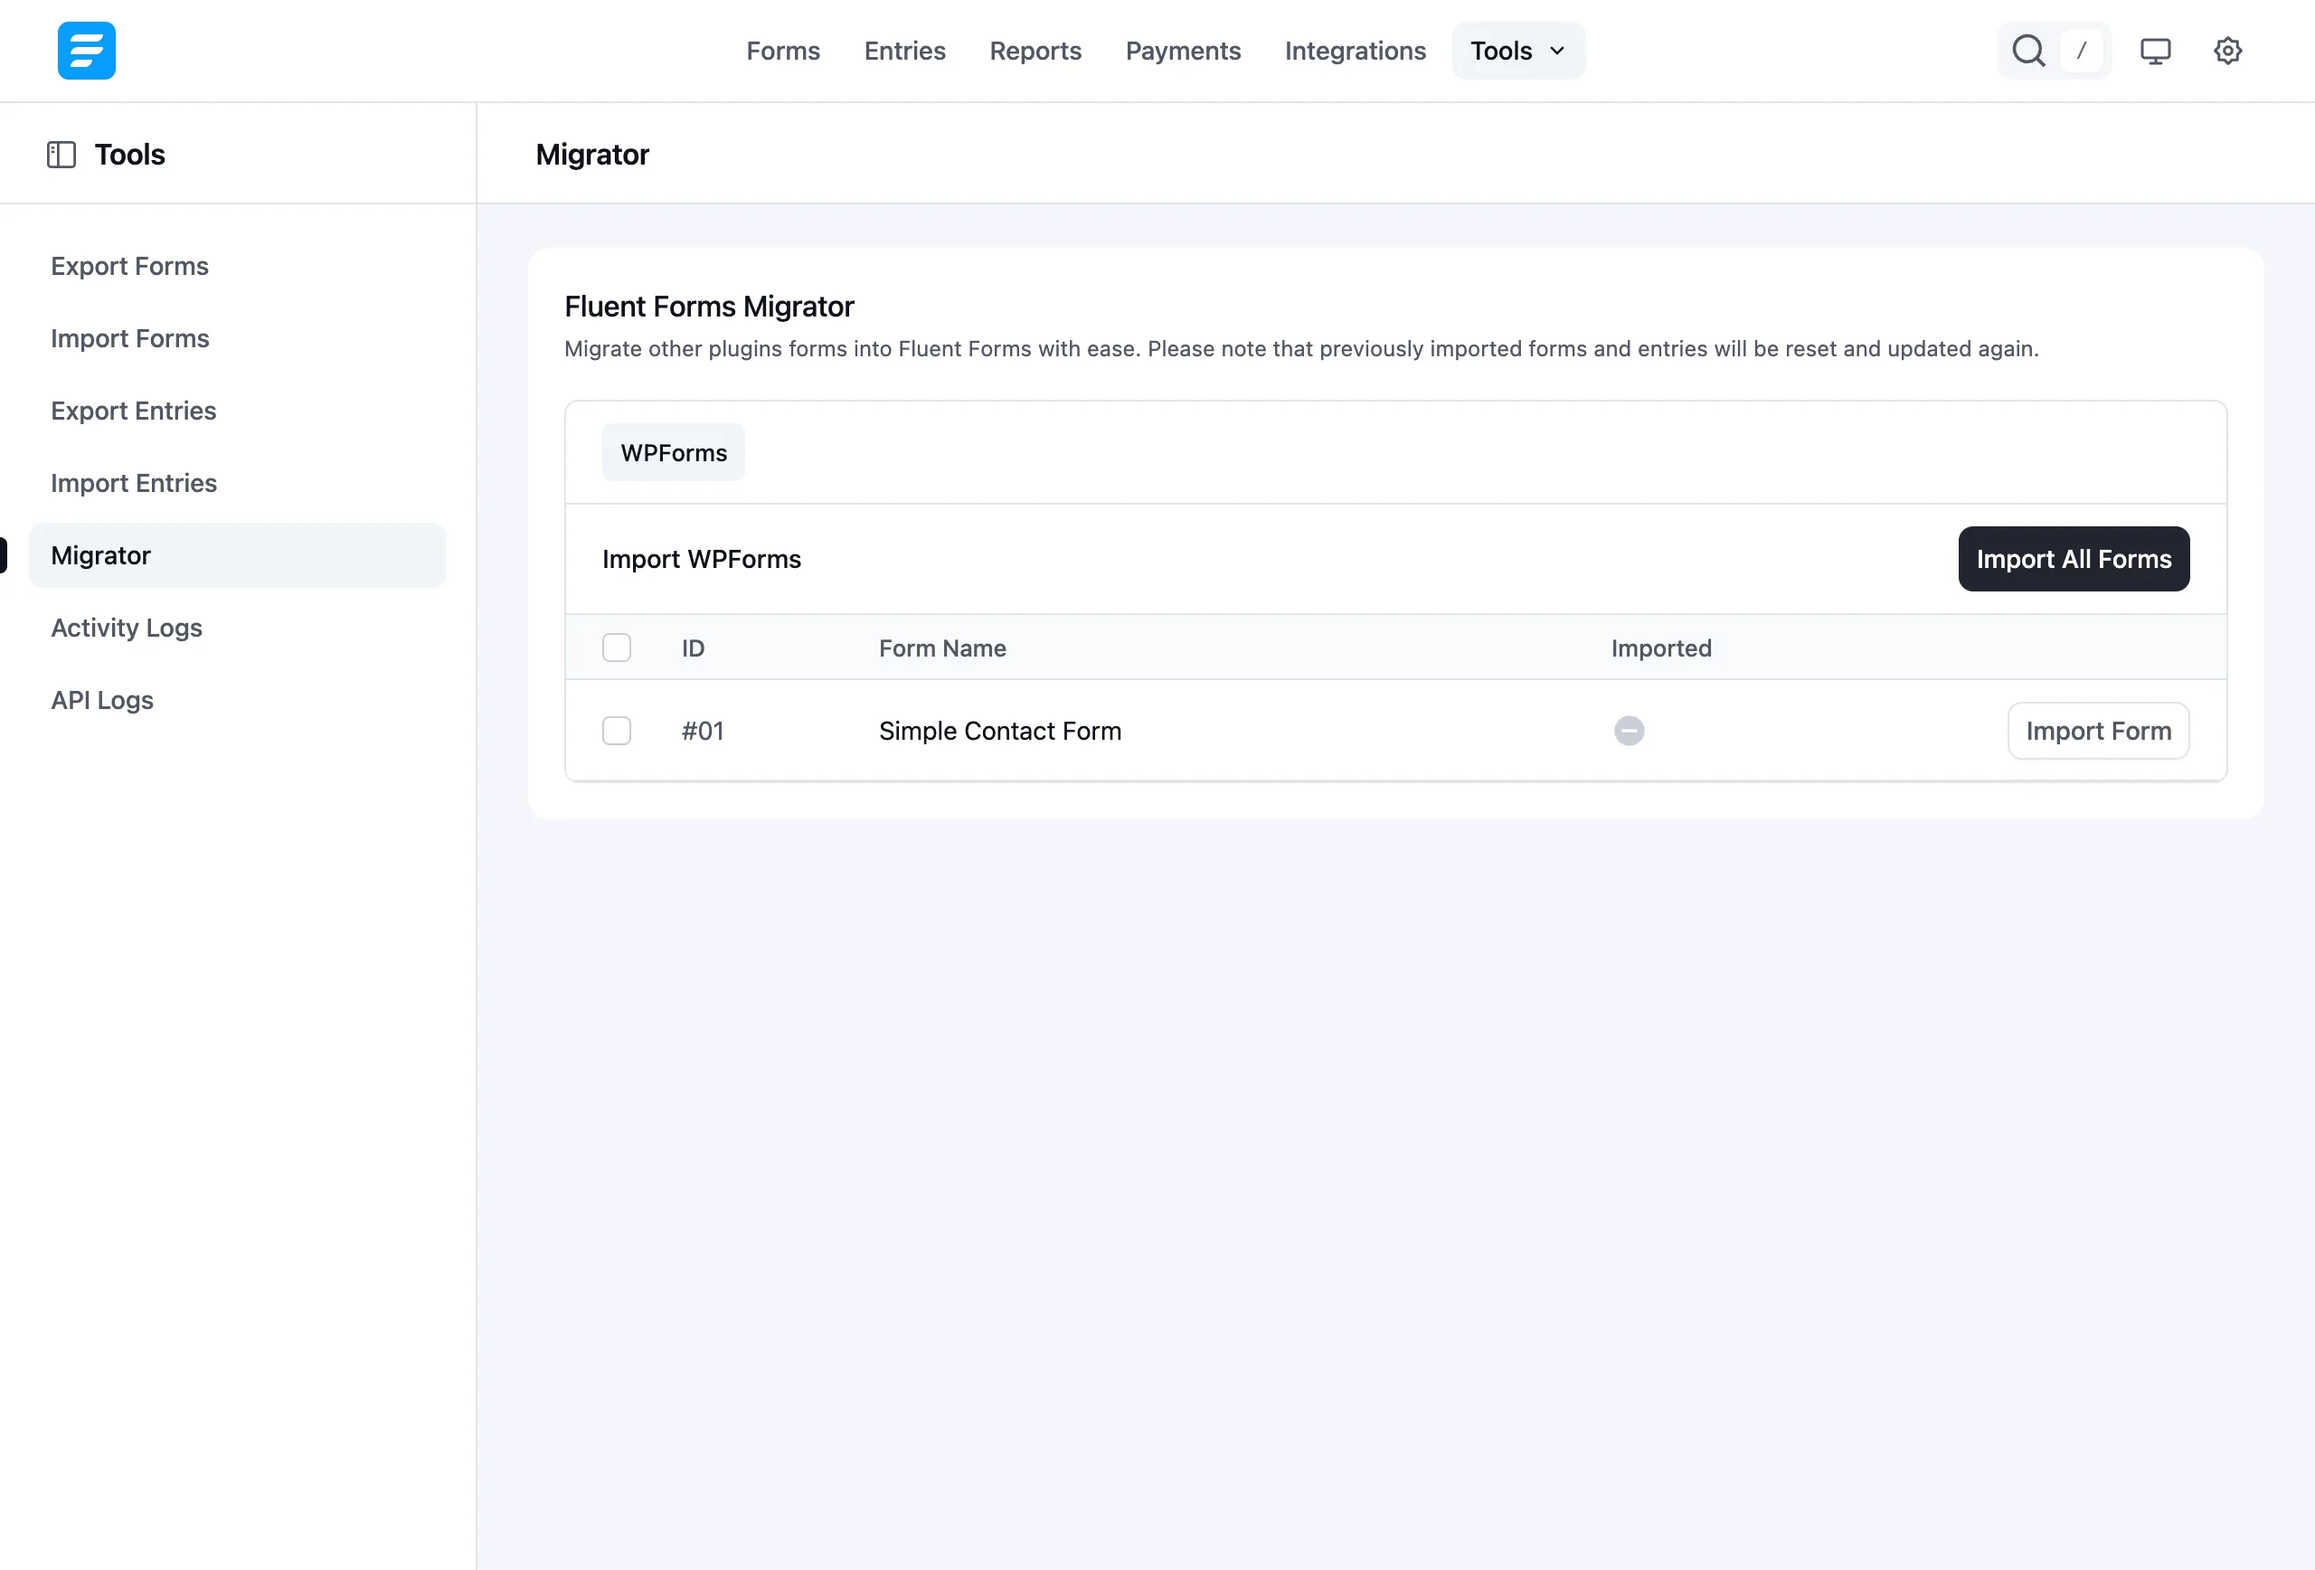
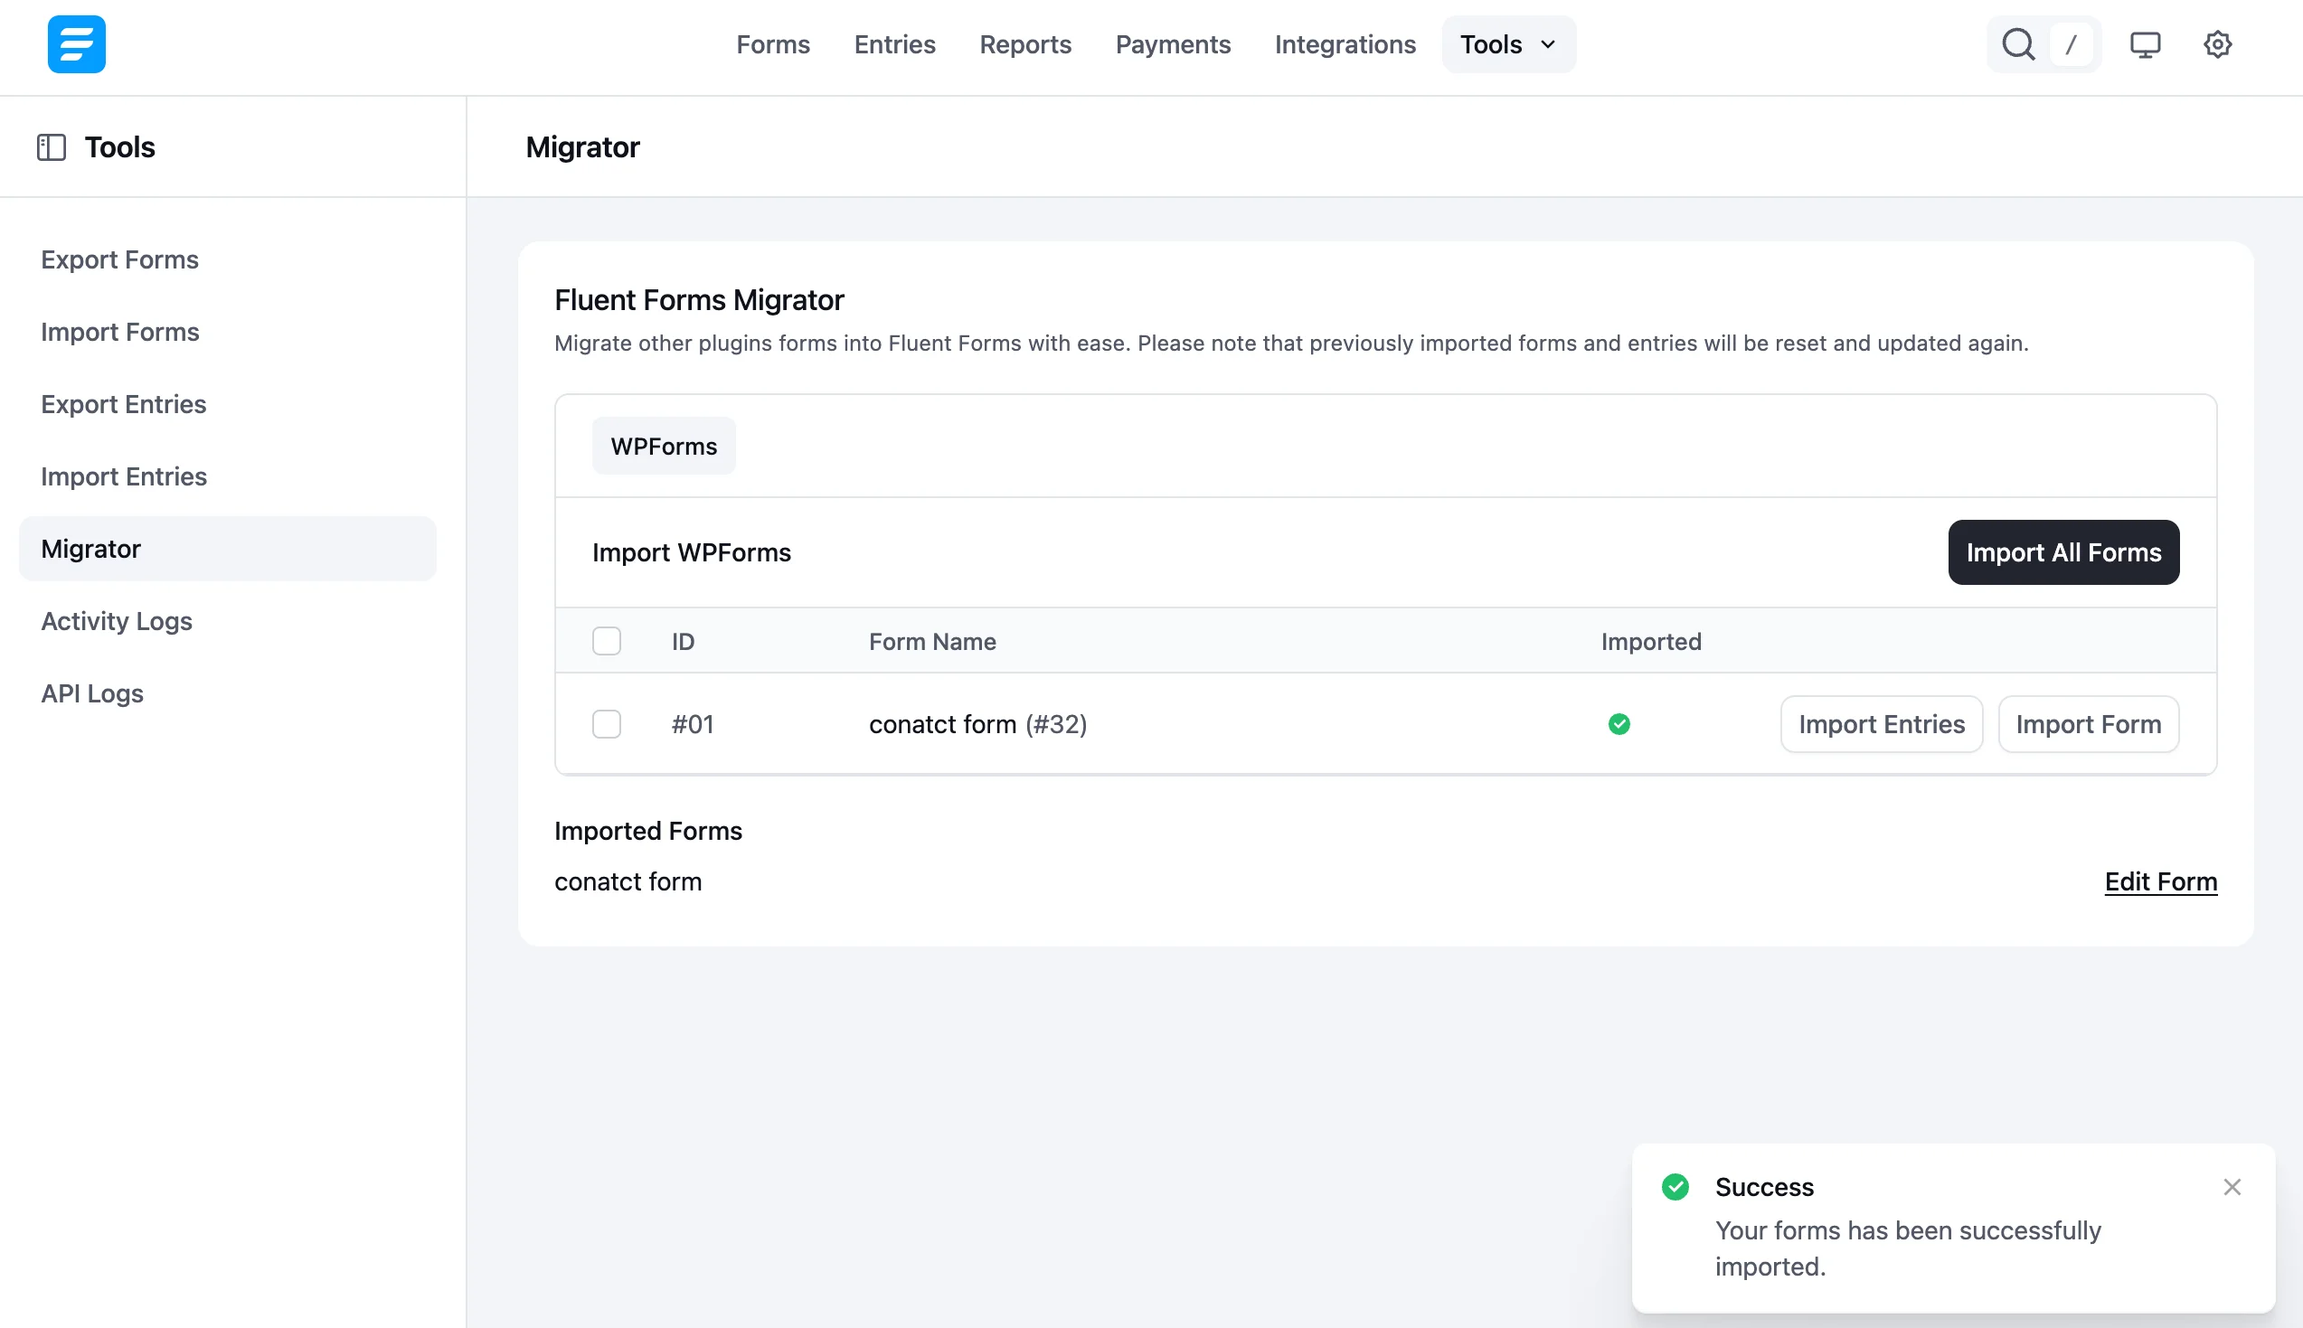
update Migrator docs

diff --git a/docs/import-export-migration/migrator-wpforms-contact-form-7-gravity-forms-ninja-forms-caldera-forms.md b/docs/import-export-migration/migrator-wpforms-contact-form-7-gravity-forms-ninja-forms-caldera-forms.md
@@ -11,18 +11,18 @@ Fluent Forms migrates your forms and form entries from WPForms, Contact Form 7, 
 
 ## Steps to Migrate Forms and Entries
 
-1. Go to the **Fluent Forms** dashboard and open [**Tools**](/user-interface) in the top menu bar (under **More**).
+1. Go to the **Fluent Forms** dashboard and open [**Tools**](/user-interface) from the top navigation bar.
 2. Click **Migrator** in the left menu. Fluent Forms shows a tab for each supported plugin that is active on your site, with its list of forms.
 3. Click **Import All Forms** to import every form at once.
 
 Alternatively, select specific forms from the list and click **Import Selected Forms**, or click **Import Form** on a single row. If a form has fields Fluent Forms does not support, a warning lists them so you can create them manually.
 
-![Migrate Fluent Forms](/images/import-export-migration/migrator-wpforms-contact-form-7-gravity-forms-ninja-forms-caldera-forms/Forms-Migrate-scaled.webp)
+![Fluent Forms Migrator page with the WPForms tab and Import All Forms button](/images/import-export-migration/migrator-wpforms-contact-form-7-gravity-forms-ninja-forms-caldera-forms/Forms-Migrate-scaled.webp)
 
-After the import, a success message appears in the top right corner of the page. The imported forms appear at the bottom of the page.
+After the import, a **Success** message appears in the bottom right corner of the page. The row shows a green check under **Imported**, and the imported form appears under **Imported Forms** at the bottom with an **Edit Form** link.
 
 Click **Import Entries** on an imported form's row to transfer its entries into Fluent Forms. A confirmation asks you to continue because this deletes all existing submissions of that form and replaces them with the imported ones. Once migrated, you can review and organize the entries on the [Entries](/managing-entries) page.
 
-![Migrate Entry](/images/import-export-migration/migrator-wpforms-contact-form-7-gravity-forms-ninja-forms-caldera-forms/migrate-form-entry-03-scaled.webp)
+![Migrator page after the import with the Import Entries button and success message](/images/import-export-migration/migrator-wpforms-contact-form-7-gravity-forms-ninja-forms-caldera-forms/migrate-form-entry-03-scaled.webp)
 
 To import entries from a file instead, see [Importing Entries](/importing-entries). To review your new forms, go to the Forms list.
